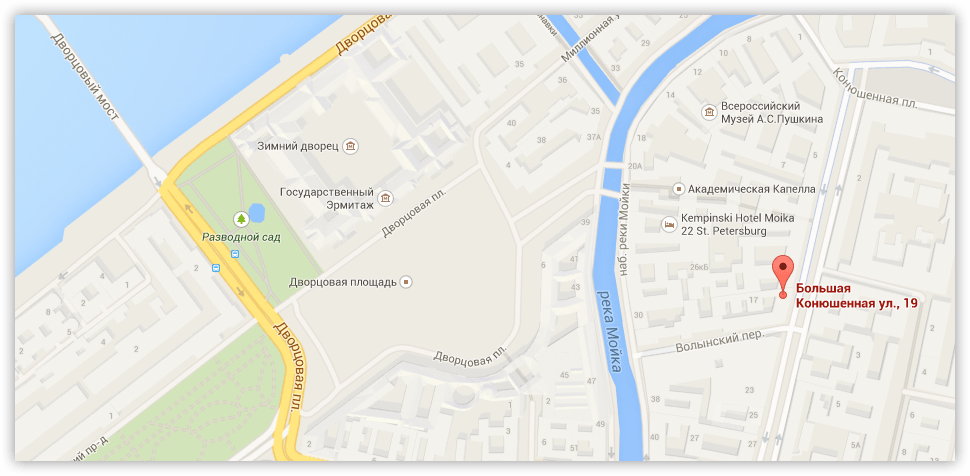
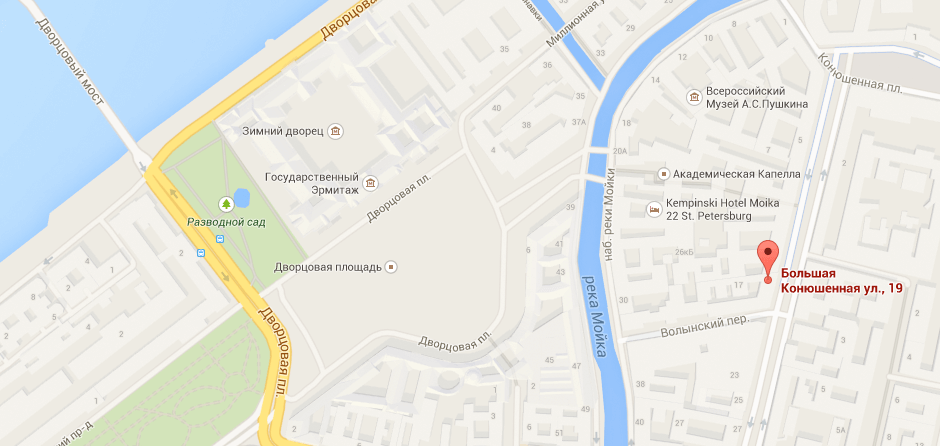
Сделаны модальные окна

diff --git a/css/style.css b/css/style.css
@@ -889,6 +889,7 @@ a {
 }
 
 .container-about {
+    position: relative;
     display: flex;
     justify-content: space-between;
     margin-top: 79px;
@@ -982,18 +983,165 @@ a {
     padding-left: 45px;
 }
 
-.contacts__popup {
+.contacts__open-popup {
     display: block;
     min-height: 158px;
+}
+
+.map-popup {
+    display: none;
+    width: 940px;
+    position: fixed;
+    top: 50%;
+    left: 50%;
+    margin-top: -225px;
+    margin-left: -470px;
+    z-index: 10;
+}
+
+.map-popup img {
+    box-shadow: 0 0 14.7px 1.3px rgba(47, 42, 43, 0.5);
+}
+
+.map-popup__close,
+.contact-popup__close {
+    position: absolute;
+    top: 4px;
+    right: 5px;
+    border: none;
+    width: 30px;
+    height: 30px;
+    cursor: pointer;
+    background: url(../img/close.svg) no-repeat 50% 50%;
+}
+
+.contact-popup {
+    display: none;
+    position: fixed;
+    top: 50%;
+    left: 50%;
+    margin-top: -215px;
+    margin-left: -310px;
+    z-index: 10;
+    background-color: white;
+    box-shadow: 0px 20px 40px 0 rgba(0, 0, 0, 0.75);
+    width: 620px;
+    min-height: 430px;
+    box-sizing: border-box;
+    border-top: solid 7px #ff5357;
+}
+
+.contact-popup__close {
+    top: 4px;
+    right: 5px;
+}
+
+.contact-popup__label {
+    font-size: 18px;
+}
+
+.contact-popup__form {
+    margin-top: 45px;
+}
+
+.contact-popup__form-top {
+    width: 460px;
+    margin: 0 auto;
+    margin-bottom: 13px;
+    display: flex;
+    flex-wrap: wrap;
+}
+
+.contact-popup__form-half-part {
+    width: 220px;
+    margin: 0;
+    margin-bottom: 20px;
+}
+
+.contact-popup__form-half-part:first-child {
+    margin-right: 20px;
+}
+
+.contact-popup__half-part-input {
+    width: 100%;
+    font-family: 'PT Sans', Arial, sans-serif;
+    box-sizing: border-box;
+    margin-top: 9px;
+    padding: 10px 13px;
+    border: solid 2px #dee3e4;
+    border-radius: 2px;
+    font-size: 13px;
+}
+
+.contact-popup__half-part-input::placeholder {
+    font-size: 13px;
+    line-height: 1.38;
+    color: #a9a9a9;
+}
+
+.contact-popup__form-full-part {
+    width: 100%;
+    margin: 0;
+    margin-bottom: 20px;
+}
+
+.contact-popup__full-part-input {
+    width: 100%;
+    font-family: 'PT Sans', Arial, sans-serif;
+    box-sizing: border-box;
+    min-height: 114px;
+    resize: none;
+    margin-top: 8px;
+    padding: 8px 13px;
+    border: solid 2px #dee3e4;
+    border-radius: 2px;
+    font-size: 13px;
+}
+
+.contact-popup__half-part-input:hover,
+.contact-popup__full-part-input:hover {
+    border-color: #b5b5b5;
+}
+
+.contact-popup__half-part-input:focus,
+.contact-popup__full-part-input:focus {
+    border-color: #ee3643;
+}
+
+
+.contact-popup__full-part-input::placeholder {
+    font-size: 13px;
+    line-height: 1.38;
+    color: #a9a9a9;
+}
+
+.contact-popup__form-bottom {
+    width: 100%;
+    padding: 37px 0;
+    margin-bottom: 0;
+    background-color: #f4f4f4;
+}
+
+.contact-popup__form-submit {
+    text-transform: uppercase;
+    font-size: 14px;
+    line-height: 1.29;
+    text-align: center;
+    background-color: #ee3643;
+    border: none;
+    border-radius: 3px;
+    cursor: pointer;
+    color: #ffffff;
+    display: block;
+    margin: 0 auto;
+    box-sizing: border-box;
+    width: 460px;
+    padding: 10px;
 }
 
 /* End index.html */
 
 /* Catalog.html */
-
-.added-to-basket-popup {
-    display: none;
-}
 
 .breadcrumbs {
     list-style: none;
@@ -1343,6 +1491,91 @@ a {
     margin: 0;
 }
 
+.added-to-basket-popup {
+    display: none;
+    width: 620px;
+    min-height: 282px;
+    z-index: 10;
+    position: fixed;
+    top: 50%;
+    left: 50%;
+    margin-top: -141px;
+    margin-left: -310px;
+    background-color: white;
+    box-sizing: border-box;
+    border-top: solid 7px #ff5357;
+    box-shadow: 0px 20px 40px 0 rgba(41, 52, 73, 0.75);
+}
+
+.added-to-basket-popup__close {
+    position: absolute;
+    top: 4px;
+    right: 5px;
+    border: none;
+    width: 30px;
+    height: 30px;
+    cursor: pointer;
+    background: url(../img/close.svg) no-repeat 50% 50%;
+}
+
+.added-to-basket-popup__top {
+    display: flex;
+    flex-wrap: wrap;
+    padding: 48.5px 81px;
+}
+
+.added-to-basket-popup__img {
+    margin-right: 32px;
+    margin-top: -1px;
+}
+
+.added-to-basket-popup__title {
+    font-family: "Cuprum", Arial, sans-serif;
+    font-size: 30px;
+    line-height: 1;
+    font-weight: normal;
+    font-stretch: normal;
+    font-style: normal;
+    line-height: 1;
+    letter-spacing: normal;
+    margin: 0;
+    margin-top: 16px;
+    margin-left: 2px;
+}
+
+.added-to-basket-popup__bottom {
+    background-color: #f1f1f1;
+    padding: 0 80px;
+    padding-top: 38px;
+    padding-bottom: 36px;
+    display: flex;
+}
+
+.added-to-basket-popup__bottom a {
+    width: 220px;
+    box-sizing: border-box;
+    font-size: 14px;
+    line-height: 1.29;
+    text-align: center;
+    text-transform: uppercase;
+    padding: 0;
+    padding-top: 11px;
+    padding-bottom: 9px;
+    padding-right: 1px;
+    border-radius: 3px;
+}
+
+.added-to-basket-popup__red-link {
+    margin-right: 20px;
+    background-color: #ee3643;
+    color: white;
+}
+
+.added-to-basket-popup__white-link {
+    color: black;
+    background-color: #ffffff;
+}
+
 /* End catalog.html */
 
 /* Product card */
@@ -1393,6 +1626,7 @@ a {
 .product-card__old-price {
     margin: 0;
     margin-top: 10px;
+    margin-bottom: 8px;
     padding-left: 3px;
     color: #a9a9a9;
     text-decoration: line-through;
@@ -1434,6 +1668,7 @@ a {
     font-family: "Cuprum", Arial, sans-serif;
     font-size: 14px;
     line-height: 1.29;
+    margin-bottom: 8px;
     text-align: center;
     min-width: 135px;
     min-height: 38px;
@@ -1447,7 +1682,6 @@ a {
     box-shadow: inset 0px -3px 0 0 #367315;
     border: none;
     color: white;
-    margin-bottom: 8px;
     background-color: #63a63e;
     position: relative;
 }
@@ -1684,11 +1918,6 @@ a {
     color: white;
     margin: 15px 0;
     margin-right: auto;
-}
-
-.map-popup,
-.contact-popup {
-    display: none;
 }
 
 /* End footer */

diff --git a/index.html b/index.html
@@ -271,7 +271,7 @@
                         Вы можете забрать товар сами,<br>
                         заехав в наш офис:
                     </p>
-                    <a class="contacts__popup" href="#"><img src="img/map.png" width="300" height="158" alt="Карта"></a>
+                    <a class="contacts__open-popup" href="#"><img src="img/map.png" width="300" height="158" alt="Карта"></a>
                     <a class="contacts__link red-button" href="#">Заблудились? Напишите нам!</a>
                 </section>
             </div>
@@ -324,8 +324,8 @@
             </div>
         </footer>
         <div class="map-popup">
-            <img src="img/big-map.png" alt="Карта">
-            <button class="map-popup__close" type="button"></button>
+            <img src="img/big-map.png" width="960" height="446" alt="Карта">
+            <button class="map-popup__close" type="button"><span class="visually-hidden">Закрыть карту</span></button>
         </div>
         <div class="contact-popup">
             <form class="contact-popup__form" action="https://echo.htmlacademy.ru" method="POST">
@@ -344,10 +344,10 @@
                     </p>
                 </div>
                 <div class="contact-popup__form-bottom">
-                    <button class="contact-popup__form-submit" type="submit">Отправить</button>
+                    <button class="red-button contact-popup__form-submit" type="submit">Отправить</button>
                 </div>
             </form>
-            <button class="contact-popup__close" type="button"></button>
+            <button class="contact-popup__close" type="button"><span class="visually-hidden">Закрыть форму</span></button>
         </div>
     </body>
 </html>
